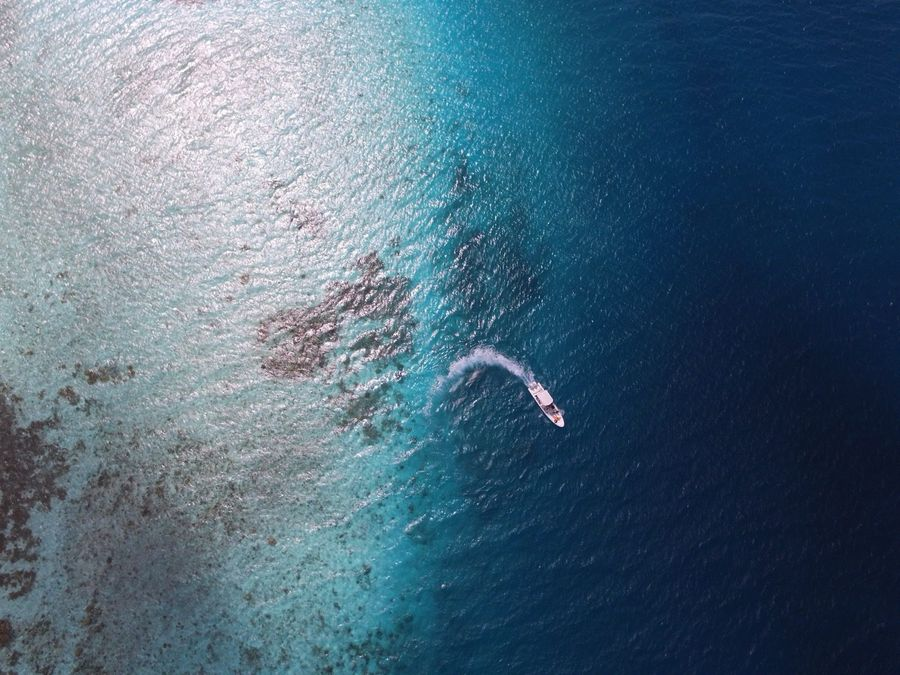
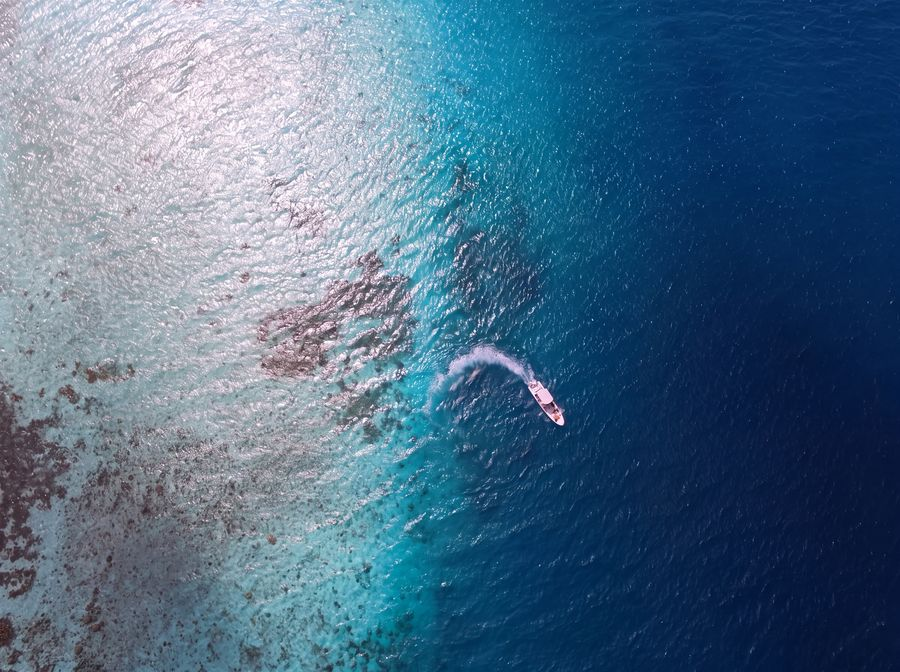
Portada: fondo del arrecife en alta resolución (4K con IA)

diff --git a/index.html b/index.html
@@ -59,8 +59,8 @@
     <section class="hero hero--photo" id="inicio">
       <div class="bg-media" aria-hidden="true">
         <img src="img/general/arrecife-1600.jpg"
-             srcset="img/general/arrecife-900.jpg 900w, img/general/arrecife-1600.jpg 1600w"
-             sizes="100vw" alt="" width="1600" height="1200" fetchpriority="high" decoding="async">
+             srcset="img/general/arrecife-900.jpg 900w, img/general/arrecife-1600.jpg 1600w, img/general/arrecife-3200.jpg 3200w"
+             sizes="(max-aspect-ratio: 1/1) 180vh, 124vw" alt="" width="1600" height="1195" fetchpriority="high" decoding="async">
       </div>
       <div class="container hero-content hero-brand">
         <h1 class="hero-logo"><span class="visually-hidden">La Capital del Cielo</span><span class="logo-anim hero-logo-anim" aria-hidden="true"><img class="la-globe" src="img/general/logo/globe-w.png" alt="" width="1400" height="749" decoding="async"><img class="la-roques" src="img/general/logo/roques-w.png" alt="" width="1400" height="749" decoding="async"><img class="la-la" src="img/general/logo/la-w.png" alt="" width="1400" height="749" decoding="async"><img class="la-capital" src="img/general/logo/capital-w.png" alt="" width="1400" height="749" decoding="async"><img class="la-cielo" src="img/general/logo/cielo-w.png" alt="" width="1400" height="749" decoding="async"></span></h1>
